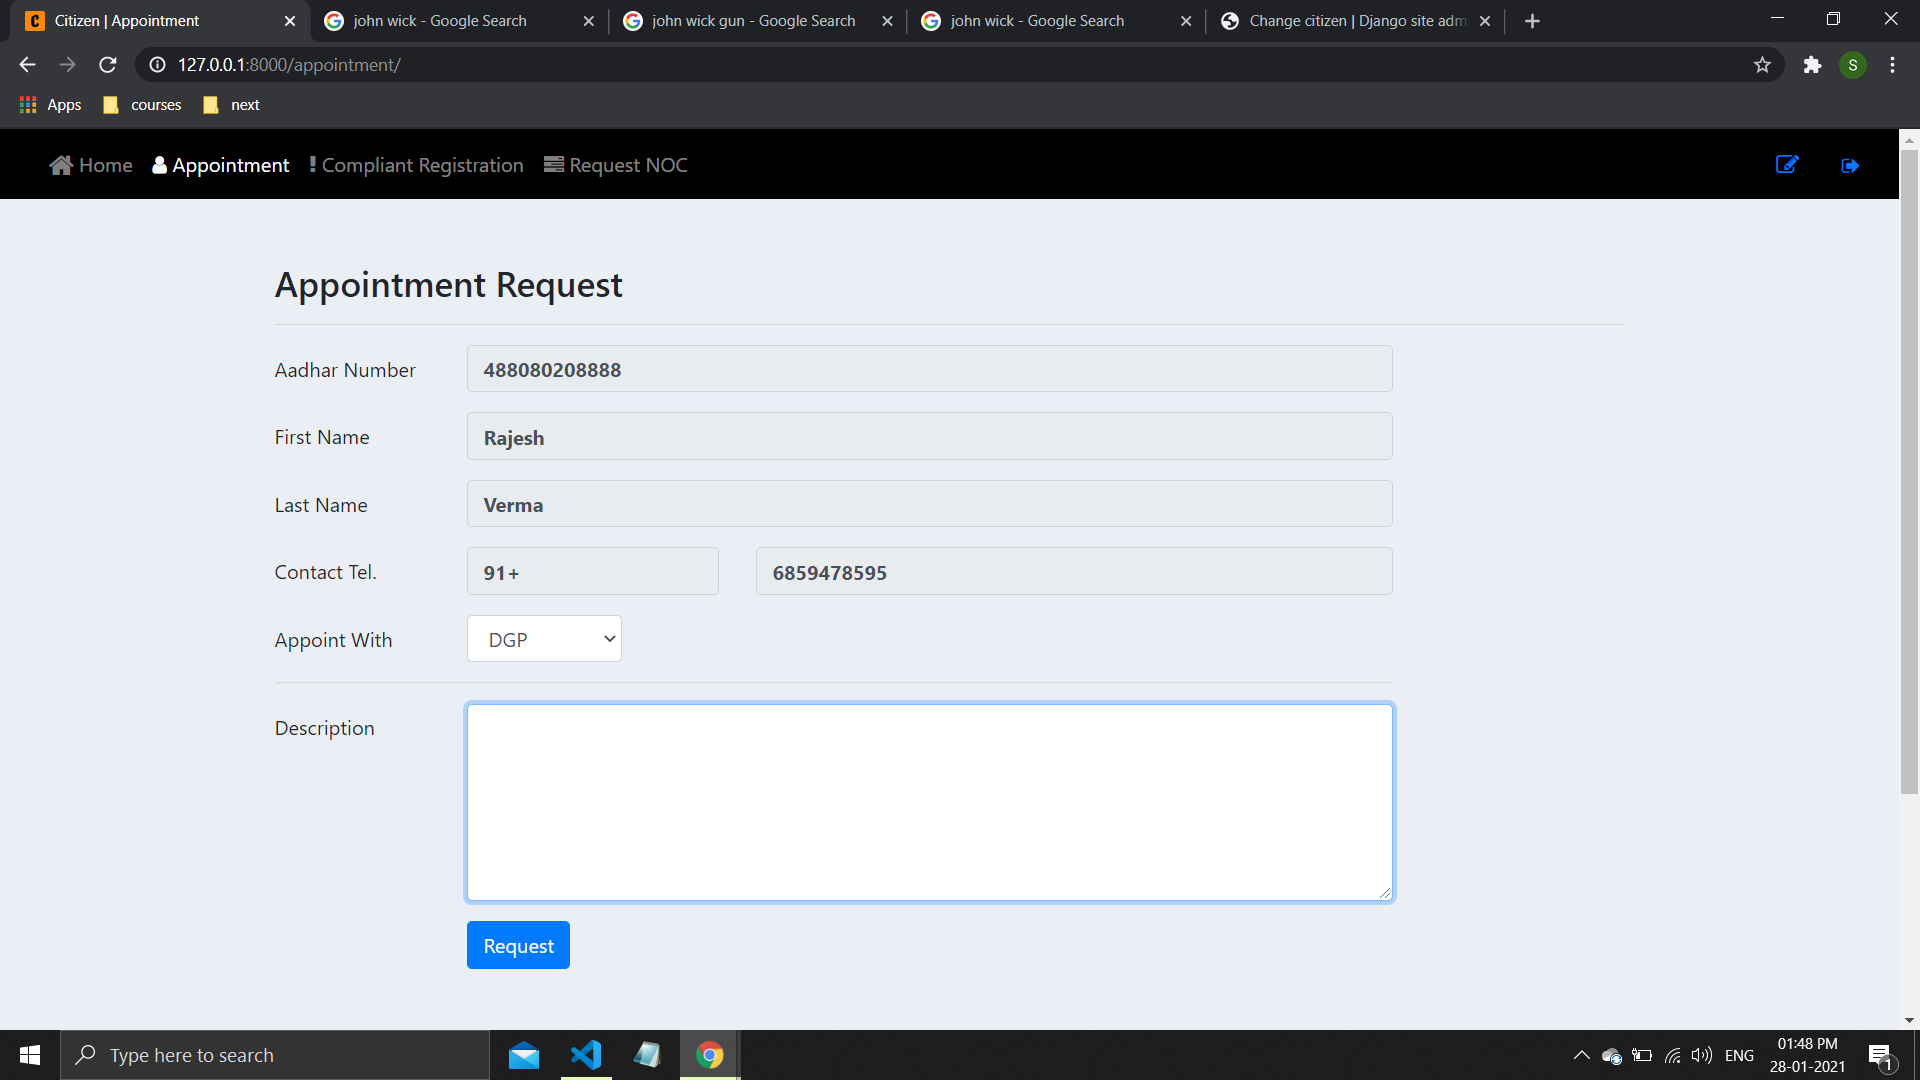
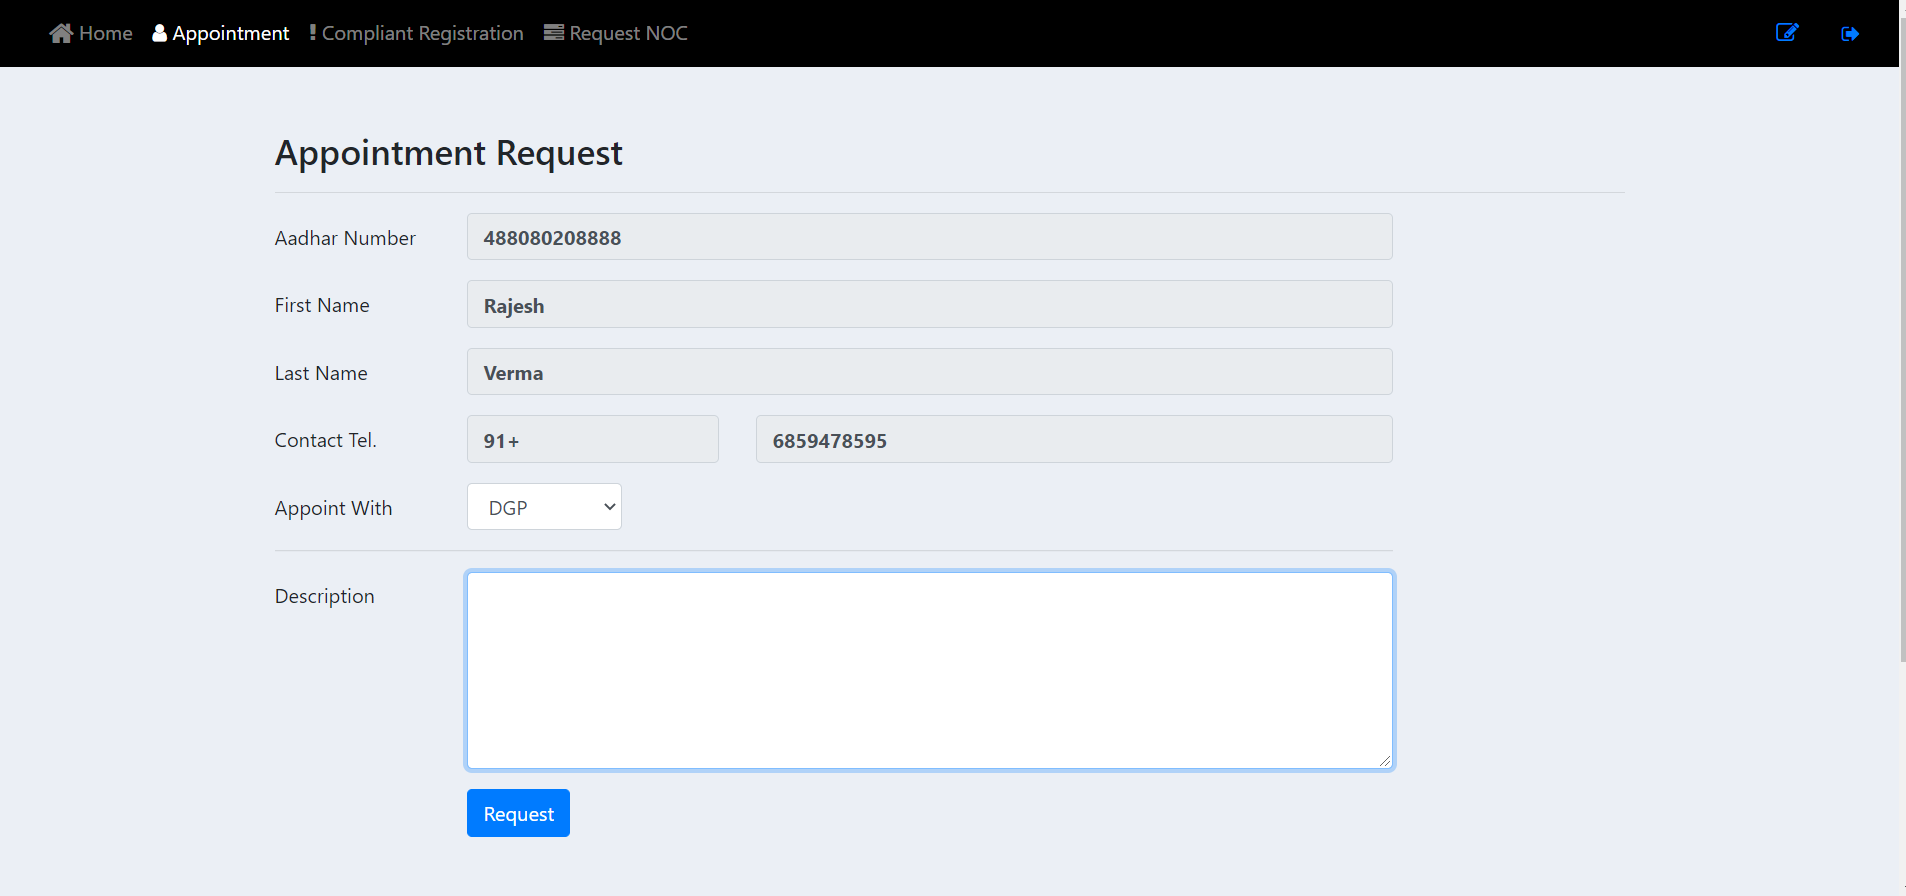
add screenshots

diff --git a/README.md b/README.md
@@ -61,8 +61,6 @@ overlooked or take a long time to detect manually
 ## About The Project
 <br />
 
-![Screenshots](images/gif.gif)
-
 Criminal Record Management System detects criminals using Artificial Intelligence in real time videos, images and alerts the human supervisor i.e. the police to take the
 necessary action. Video frames are converted into image frames using OpenCV and these frames are sent to the system where it uses Facial recognition over those frames to identify probable persons in the frame that could match with the trained model. The facial detection is done using KNN algorithm and dlib library.Additional features of the system is that the citizen can register complaints, apply for NOCs (No Objection Certificate) and request an appointment with the higher officials in the police department whereas police can view those complaints, appointment requests and NOC requests.
 
@@ -73,7 +71,7 @@ necessary action. Video frames are converted into image frames using OpenCV and 
 
 <br />
 
-#### Steps Involved in Extracting Facial features.
+### Steps Involved in Extracting Facial features.
 
 * Get Byte Stream from Image 
 * Resize Image with OpenCV
@@ -85,7 +83,7 @@ necessary action. Video frames are converted into image frames using OpenCV and 
     * img - original image of the criminal
     * key_points - key points (64 facial landmarks of criminal) in the form of encoded string
 
-#### Steps for Training a Model based on criminal records from the database
+### Steps for Training a Model based on criminal records from the database
 * Fetch Label & Key Points for each record.
 * Train the model using KNN classifier.
 ```python
@@ -95,6 +93,49 @@ classifier = KNeighborsClassifier(n_neighbors=len(labels),
                                         weights='distance')
 classifier.fit(key_pts, encoded_labels)
 ```
+
+### Class Diagram
+![Class Diagram](/media/class.png)
+
+### Use Case Diagram
+![Use Case Diagram](/media/usecase.png)
+
+### Sequence Diagram
+![Sequence Diagram](/media/sequence.png)
+
+<br />
+
+
+<details>
+
+<summary> Screenshots of the application </summary>
+
+<br />
+
+#### Sign Up Page
+![Sign Up](/media/signup.png)
+
+#### Login Page
+![Login](/media/login.png)
+
+#### Compliant Registration
+![Compliant Registration](/media/compliant.png)
+
+#### Dashboard
+![Dashboard](/media/dashboard.png)
+
+#### Add Criminal Record
+![Add Criminal Record](/media/upload-record.png)
+
+#### Match Image with Database
+![Match Image](/media/search-image.png)
+
+#### Result of Prediction
+![Result](/media/result.png)
+
+</details>
+<br />
+
 ### Built With
 
 [![My Skills](https://skillicons.dev/icons?i=django,python,jquery,js,html,bootstrap&perline=3)](https://skillicons.dev)
